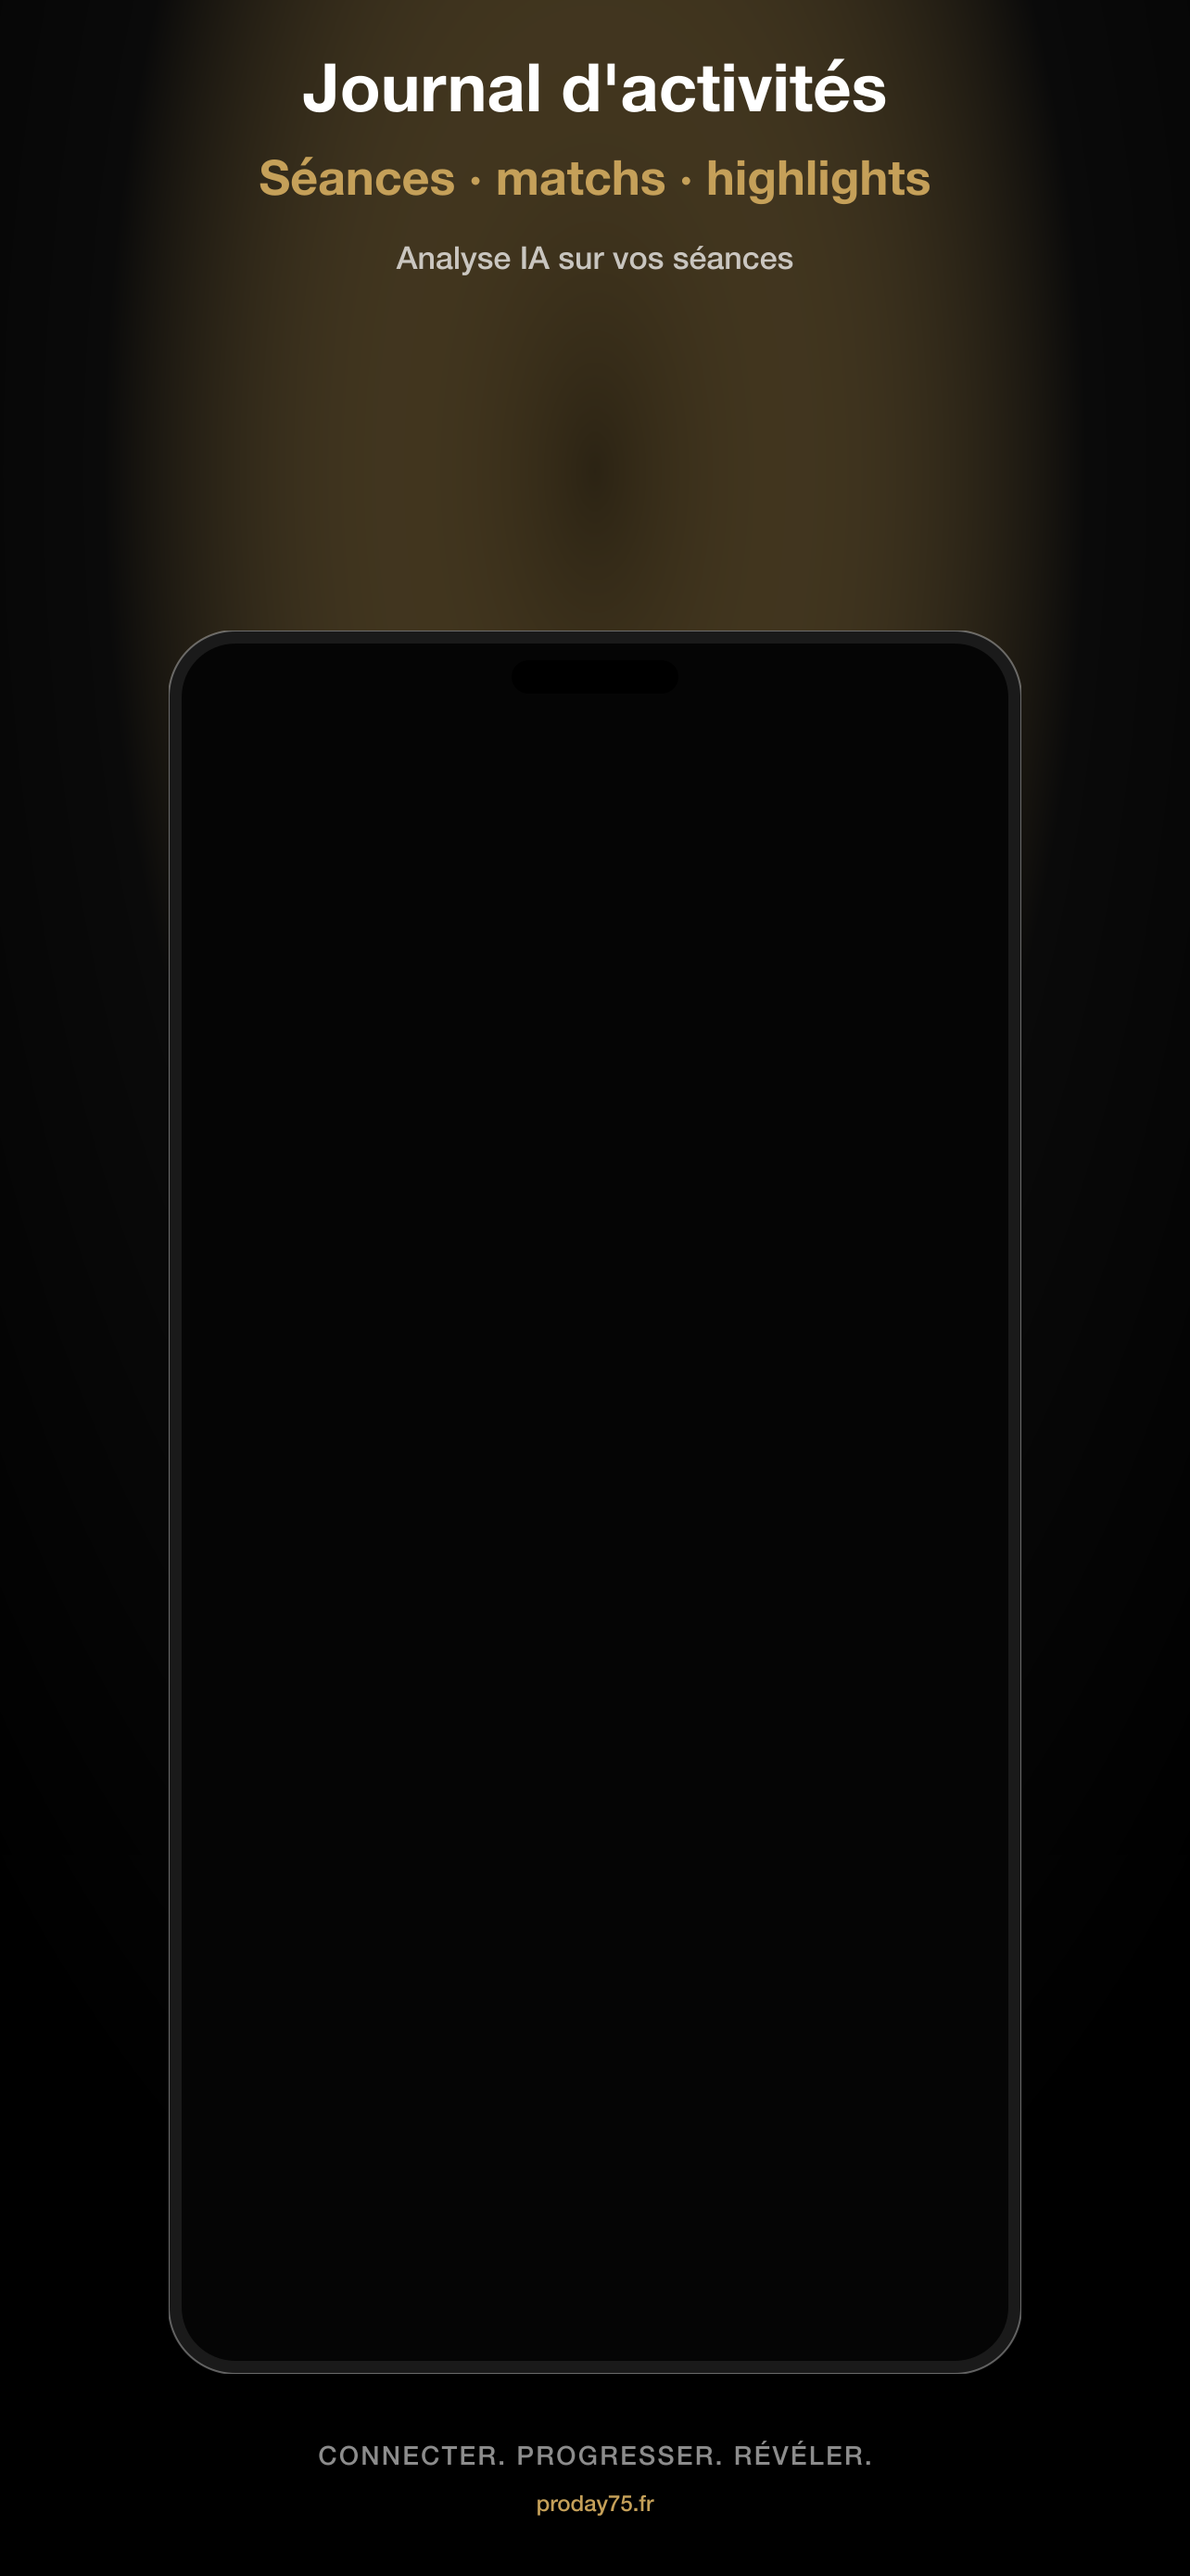
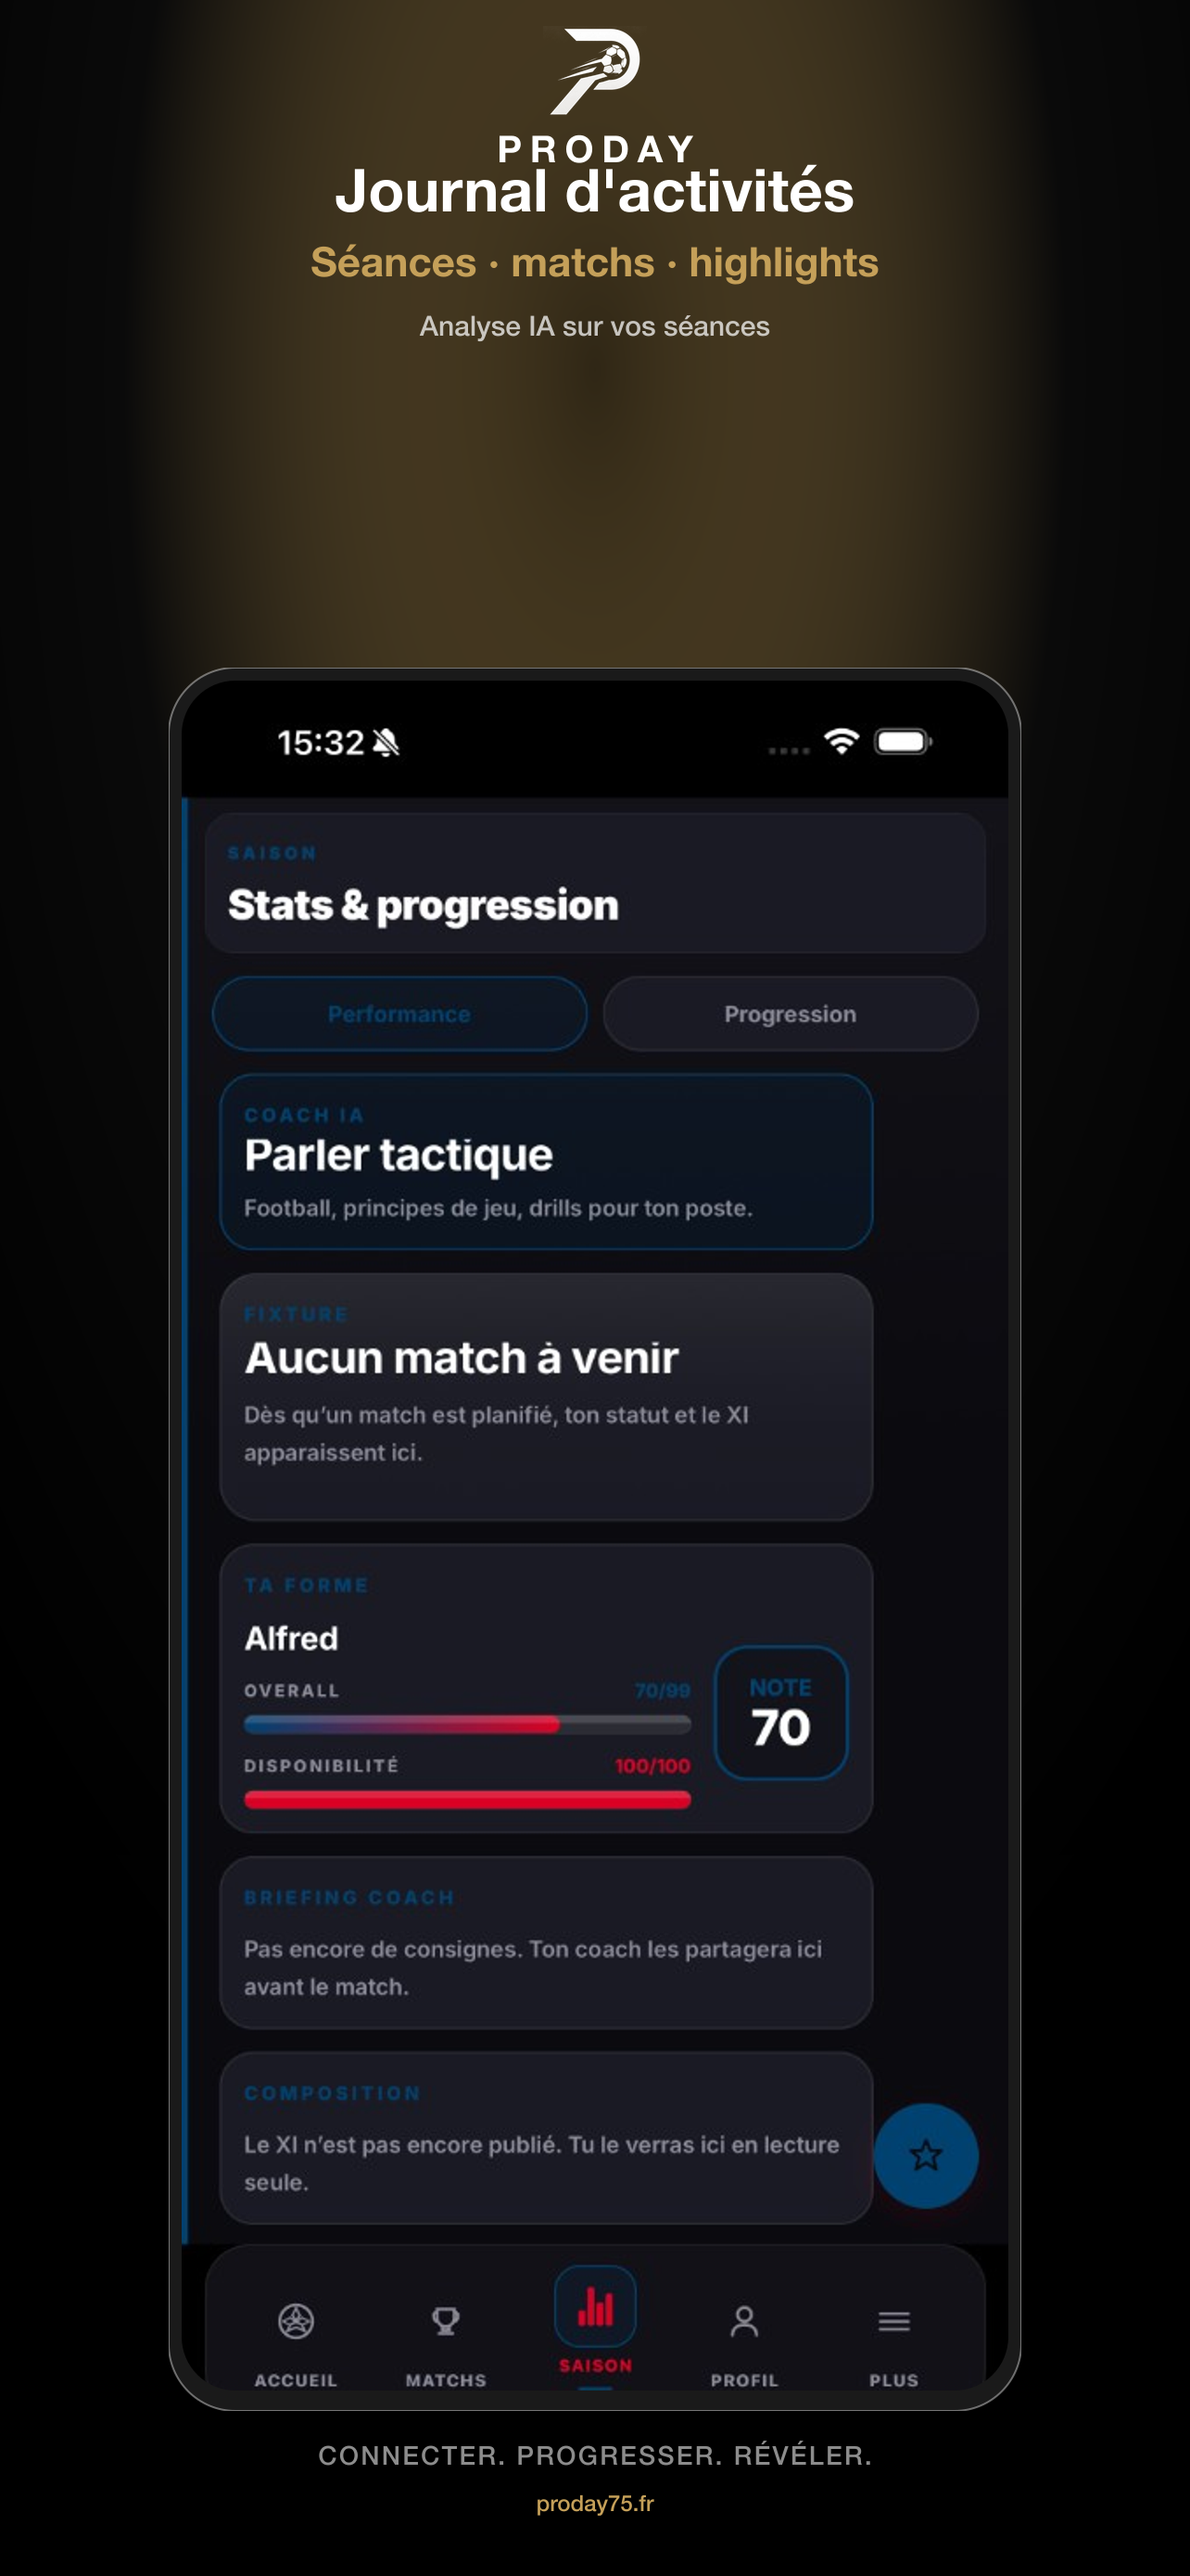
Refondre captures App Store iOS 6,5" avec UI réelle v1.0.8.
Remplace les visuels Unsplash par les captures simulateur du site, corrige le cadre téléphone qui masquait l'écran, et ajoute le branding PRODAY en en-tête.

diff --git a/assets/marketing/app-store/ios-6.5/README.md b/assets/marketing/app-store/ios-6.5/README.md
@@ -1,6 +1,6 @@
 # Captures App Store — iPhone 6,5" (iOS)
 
-Identité : **CONNECTER. PROGRESSER. RÉVÉLER.** · [proday75.fr](https://proday75.fr)
+Identité : **PRODAY** · **CONNECTER. PROGRESSER. RÉVÉLER.** · [proday75.fr](https://proday75.fr)
 
 ## Dimensions
 
@@ -15,35 +15,34 @@ App Store Connect → **Médias de l’app** → **Captures d’écran** → **i
 
 ## Fichiers (10 captures)
 
-| # | Fichier | Contenu | Rôle |
-|---|---------|---------|------|
-| 1 | `01-hero-brand.png` | Lockup + tagline officielle | Marque |
-| 2 | `02-joueur-profil-carriere.png` | Profil, score carrière, stats | Joueur |
-| 3 | `03-joueur-mercato.png` | Annonces Mercato | Joueur |
-| 4 | `04-joueur-arena.png` | Arena & tournois | Joueur |
-| 5 | `05-joueur-pulse-activites.png` | Journal d’activités / Pulse | Joueur |
-| 6 | `06-coach-profil-staff.png` | Espace coach & staff | Coach |
-| 7 | `07-club-recrutement.png` | Recrutement & convocations | Club |
-| 8 | `08-matchs-amicaux.png` | Matchs amicaux & RSVP | Joueur |
-| 9 | `09-communaute-reels.png` | Fil & Reels | Joueur |
-| 10 | `10-partenaires-sponsors.png` | Sponsors & visibilité | Partenaires |
+| # | Fichier | Accroche | Écran réel (v1.0.8) |
+|---|---------|----------|----------------------|
+| 1 | `01-hero-brand.png` | Lockup officiel + tagline | Marque (pas de téléphone) |
+| 2 | `02-joueur-profil-carriere.png` | Profil & carrière | `player/player-profil.jpg` |
+| 3 | `03-joueur-mercato.png` | Mercato ciblé | `player/player-menu.jpg` (modules Équipe / Mercato) |
+| 4 | `04-joueur-arena.png` | Arena & tournois | `player/player-matchs.jpg` |
+| 5 | `05-joueur-pulse-activites.png` | Journal d’activités | `player/player-saison.jpg` |
+| 6 | `06-coach-profil-staff.png` | Espace Coach | `coach/coach-profil.jpg` |
+| 7 | `07-club-recrutement.png` | Espace Club | `club/club-equipes.jpg` |
+| 8 | `08-matchs-amicaux.png` | Matchs amicaux | `club/club-matchs.jpg` |
+| 9 | `09-communaute-reels.png` | Communauté & Reels | `player/player-accueil.jpg` |
+| 10 | `10-partenaires-sponsors.png` | Partenaires & sponsors | `sponsor/sponsor-accueil.jpg` |
+
+### Template (captures 02–10)
+
+- **En-tête** : symbole P + wordmark **PRODAY**, titre fort, sous-titre accent, ligne de contexte
+- **Cadre iPhone** : capture simulateur réelle (pas de stock Unsplash)
+- **Pied** : tagline + proday75.fr
+
+Les captures proviennent de `website/public/images/app/` — mêmes visuels que le site marketing (simulateur iOS, app **1.0.8**).
 
 ## 3 captures recommandées en premier
 
-Si App Store Connect n’en accepte que quelques-unes ou pour un premier upload :
-
-1. **`01-hero-brand.png`** — identité ProDay (obligatoire pour la cohérence store)
-2. **`02-joueur-profil-carriere.png`** — valeur cœur joueur (profil & carrière)
-3. **`03-joueur-mercato.png`** — différenciateur Mercato / recrutement
+1. **`01-hero-brand.png`** — identité ProDay
+2. **`02-joueur-profil-carriere.png`** — profil & carrière joueur
+3. **`03-joueur-mercato.png`** — Mercato / recrutement
 
 Ensuite : `06-coach-profil-staff.png`, `07-club-recrutement.png`, puis le reste.
-
-## Aperçus app (optionnel, max 3)
-
-Les aperçus vidéo ne sont **pas** générés ici. Pour un aperçu :
-
-- Enregistrer 15–30 s sur simulateur **iPhone 15 Pro Max** (6,7") ou appareil 6,5"
-- Ou réutiliser `assets/intro/proday-intro.mp4` (1080×1920) — recadrer si besoin
 
 ## Regénérer
 
@@ -57,7 +56,10 @@ npm run marketing:app-store-ios:legacy
 
 Script : [`scripts/generate-app-store-screenshots.mjs`](../../../../scripts/generate-app-store-screenshots.mjs)
 
-Sources visuelles : `assets/generated/classic/`, `assets/mockups/`, `assets/branding/`.
+Sources :
+
+- **Branding** : `assets/branding/proday-symbol-white.png`, `proday-lockup-official-source.png`
+- **UI app** : `website/public/images/app/` (réf. `website/src/lib/*AppScreens.ts`)
 
 ## Upload App Store Connect
 
@@ -66,4 +68,4 @@ Sources visuelles : `assets/generated/classic/`, `assets/mockups/`, `assets/bran
 3. Glisser-déposer les PNG **dans l’ordre** ci-dessus (01 → 10)
 4. Vérifier l’aperçu : aucun bandeau « dimensions incorrectes »
 
-> Ne pas redimensionner manuellement dans Preview/Figma — regénérer via le script si besoin.
+> Ne pas redimensionner manuellement — regénérer via le script si besoin.
